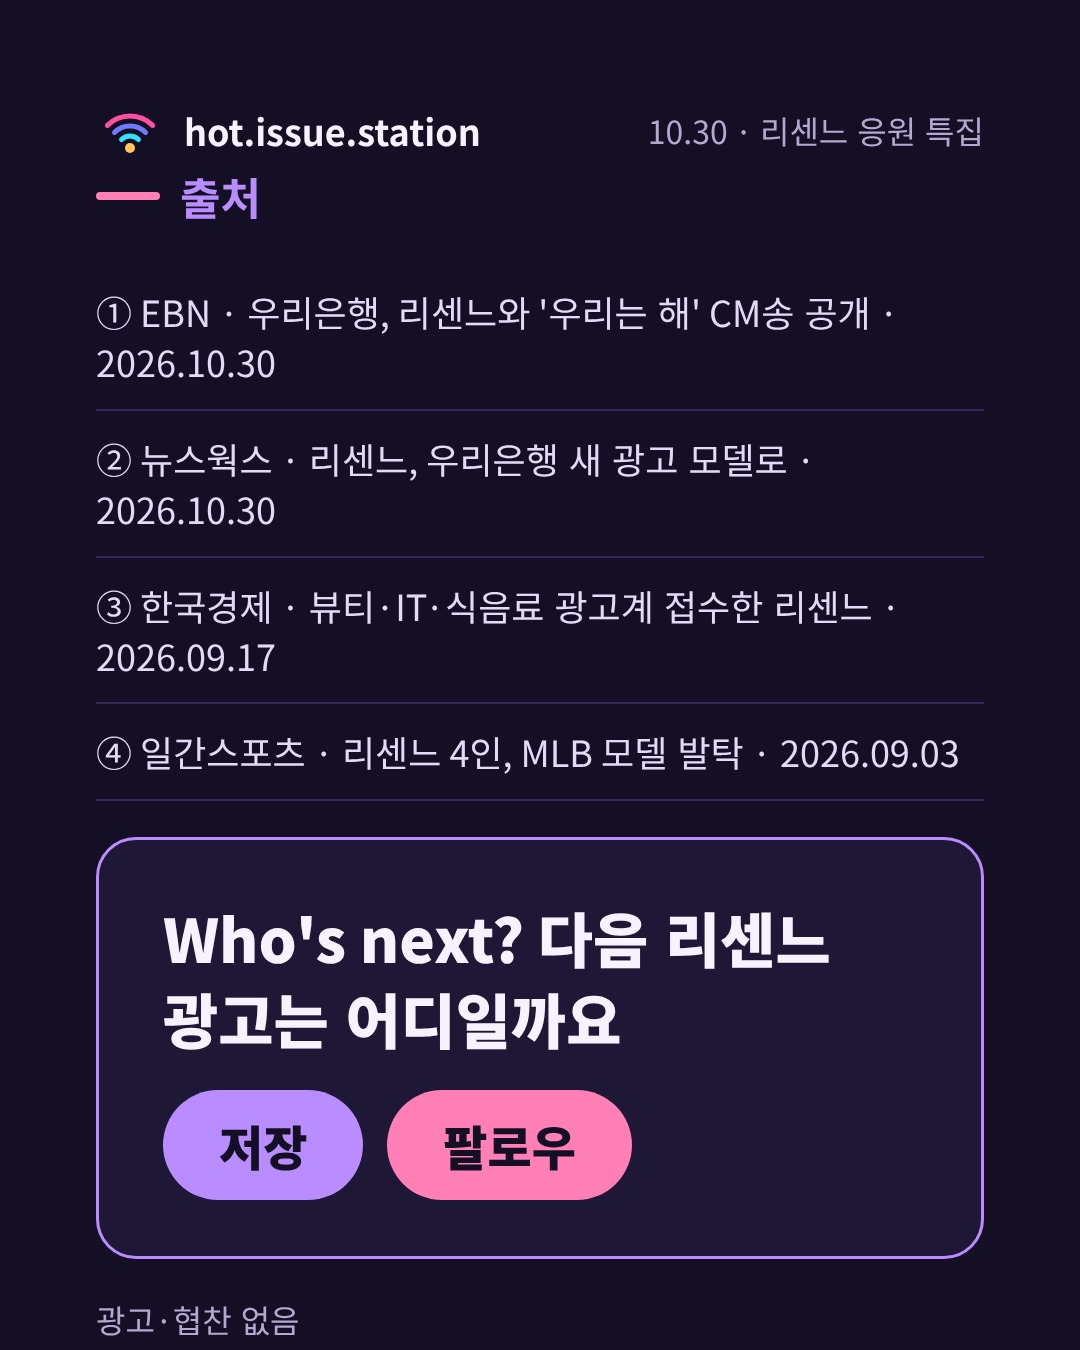
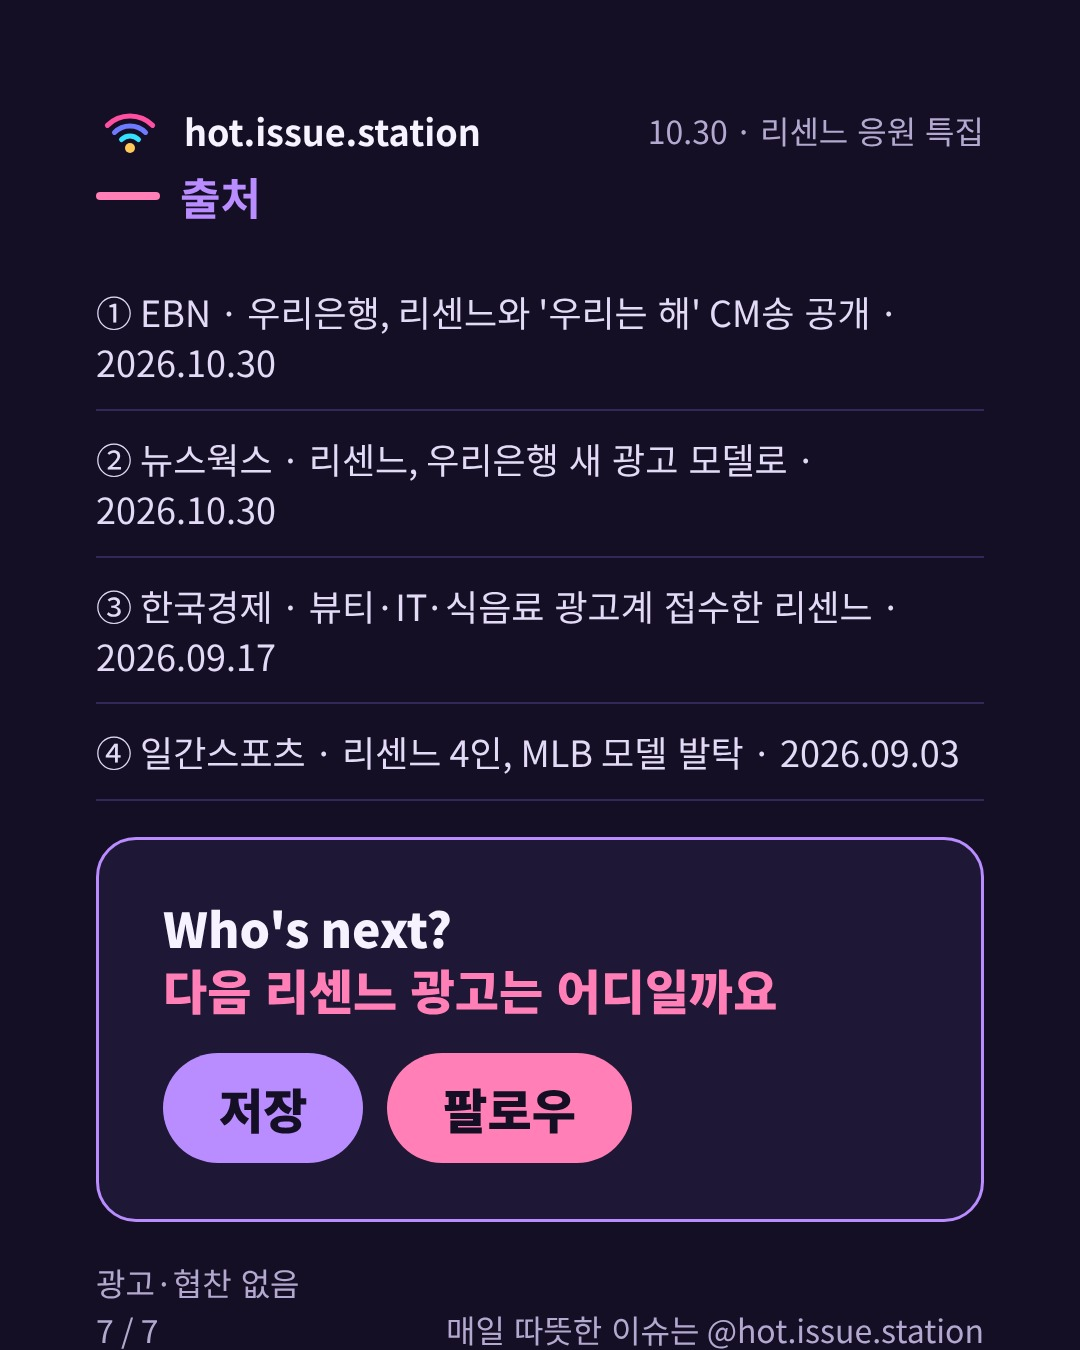
7장 유도 문구에 강조색·줄바꿈 지원, 리센느 광고 연대표 마지막 장 강조
Claude-Session: https://claude.ai/code/session_017sdLagcUBN8x36GNi59y1w

Changed region(s): [[0.0917, 0.6533, 0.9167, 0.9956], [0.3972, 0.9644, 0.9167, 1.0]]

diff --git a/scripts/make_post.py b/scripts/make_post.py
@@ -225,6 +225,12 @@ def cover_photo(r, label):
 <div style="font-size:72px;font-weight:900;line-height:1.2">{hook}</div></div>""", label, 1, "밀어서 다음 장 →", deco=deco)
 
 
+def cta_html(t):
+    """7장 유도 문구: \n은 줄바꿈, *글자*는 분홍 강조색(대표 요청 10/30)."""
+    import re as _re
+    return _re.sub(r"\*(.+?)\*", lambda m: f'<span style="color:{PINK}">{m.group(1)}</span>', E(t)).replace("\n", "<br>")
+
+
 def hook_html(h):
     """줄바꿈(\n)을 넣은 훅은 그대로, 아니면 첫 쉼표 뒤에서 한 번 줄을 바꾼다."""
     if "\n" in h:
@@ -300,7 +306,7 @@ def cards(r):
 <div style="display:flex;align-items:center;gap:20px"><div style="width:64px;height:8px;border-radius:4px;background:{PINK}"></div><div style="font-size:44px;font-weight:700;color:{CYAN}">출처</div></div>
 <div style="display:flex;flex-direction:column">{src}</div>
 <div style="padding:56px 64px;border:3px solid {CYAN};border-radius:40px;background:{BOX};display:flex;flex-direction:column;gap:32px">
-<div style="font-size:60px;font-weight:900;line-height:1.35">{E(r['cta'])}</div>
+<div style="font-size:{48 if chr(10) in r['cta'] else 60}px;font-weight:900;line-height:1.3">{cta_html(r['cta'])}</div>
 <div style="display:flex;gap:24px"><div style="padding:20px 56px;border-radius:999px;background:{CYAN};color:{ONACC};font-size:48px;font-weight:900">저장</div>
 <div style="padding:20px 56px;border-radius:999px;background:{PINK};color:{ONACC};font-size:48px;font-weight:900">팔로우</div></div></div>
 <div style="font-size:32px;line-height:1.5;color:{MUTED}">광고·협찬 없음</div></div>""", label, 7, "매일 따뜻한 이슈는 @hot.issue.station"))
